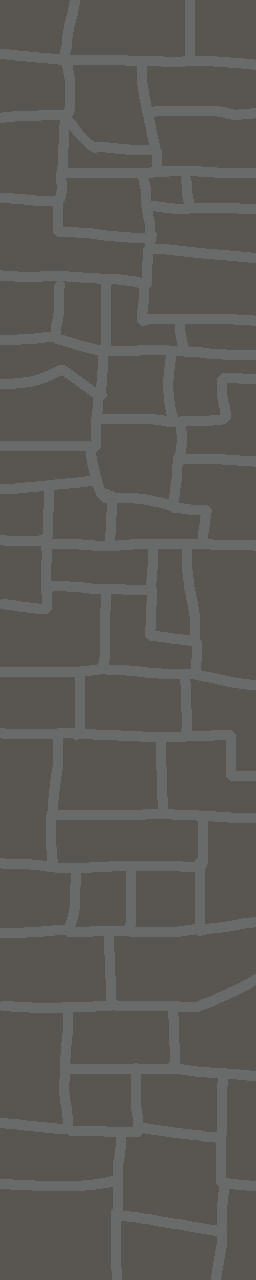
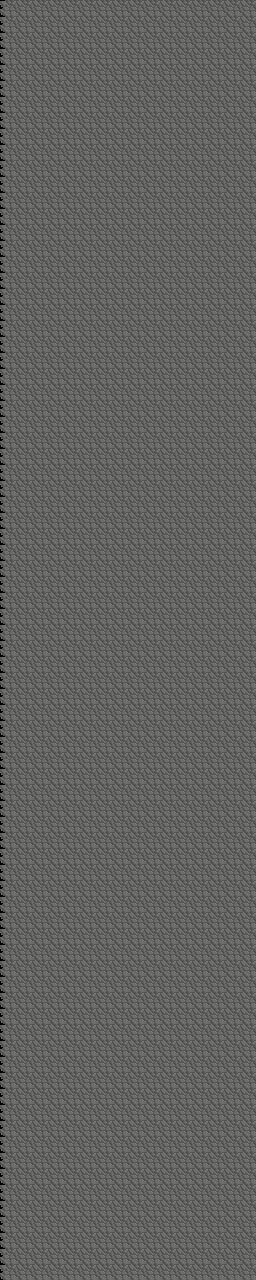
adding new enemy and tower need to add cards for new tower MySlider
new card idea
new locked card idea

need add good-looking
button for every thing in
asprite

Changed region(s): [[0.0, 0.0, 1.0, 1.0]]

diff --git a/src/ui/PlayingBar.java b/src/ui/PlayingBar.java
@@ -8,9 +8,11 @@ import scenes.Playing;
 import towers.*;
 
 import java.awt.*;
+import java.awt.image.BufferedImage;
 import java.text.DecimalFormat;
 
 import static helpz.Constants.TowerType.*;
+import static helpz.LoadSave.getImg;
 import static main.GameStates.*;
 
 public class PlayingBar extends Bar {
@@ -18,6 +20,7 @@ public class PlayingBar extends Bar {
     private Playing playing;
     private Game game;
     private TowerManager towerManager;
+    private BufferedImage background=getImg("side_bar");;
     private MyButton bMenu, bReset;
     private MyButton bUpgrade1, bUpgrade2, bUpgrade3, bSell;
     private MyButton[] towerButtons;
@@ -56,8 +59,7 @@ public class PlayingBar extends Bar {
 
     public void draw(Graphics g) {
         //backGround
-        g.setColor(new Color(0, 102, 102));
-        g.fillRect(x, y, width, height);
+        g.drawImage(background,x, y,null);
 
         //buttons
         drawButtons(g);
@@ -82,6 +84,8 @@ public class PlayingBar extends Bar {
 
 
     }
+
+
 
     private void drawTowerSellCost(Graphics g) {
         g.setColor(new Color(7, 43, 186));
